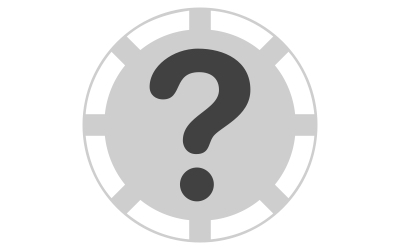
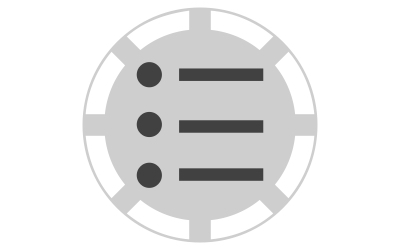
troubleshooting -> support

diff --git a/_posts/articles/2014-12-22-support.md b/_posts/articles/2014-12-22-support.md
@@ -1,19 +1,19 @@
 ---
 layout: article
-title: "Troubleshooting"
+title: "Support"
 date: 2014-12-22T11:39:03-04:00
-modified: 2015-01-06T11:39:03-04:00
+modified: 2015-01-18
 categories: articles
-excerpt: "What to do when you're facing an issue."
+excerpt: "Get support when you have an issue with the workflow."
 image:
-  teaser: teaser-troubleshooting.jpg
+  teaser: teaser-support.jpg
   feature:
   credit:
   creditlink:
 noindex: false
 toc: false
 comments: true
-onhomepage : true
+onhomepage : false
 ---
 
 If you experience an issue with the workflow, follow these steps:-
@@ -21,7 +21,7 @@ If you experience an issue with the workflow, follow these steps:-
 * Use the `spot_mini_debug` keyword input (note that if an exception occurs, it is automatically called). This will generate a `spot_mini_debug.tgz` file in your _Downloads_ directory.
 
 <figure>
-	<img src="{{ site.url }}/images/troubleshooting1.jpg"></a>
+	<img src="{{ site.url }}/images/support1.jpg"></a>
 	<figcaption>An exception occurred.</figcaption>
 </figure>
 
@@ -31,7 +31,7 @@ If you experience an issue with the workflow, follow these steps:-
 **Note:** With the `spot_mini_debug.tgz`, I'll have access to your Spotify library (but not your Spotify password, don't worry :smile:). This is only for the time of investigation. Once investigation is over, you can regenerate a _Client Secret_, as explained in the [Spotify Application page](https://developer.spotify.com/my-applications):-
 
 <figure>
-	<img src="{{ site.url }}/images/troubleshooting2.jpg"></a>
+	<img src="{{ site.url }}/images/support2.jpg"></a>
 	<figcaption>Regenerate Client Secret once investigation is over.</figcaption>
 </figure>
 
@@ -39,7 +39,7 @@ If you experience an issue with the workflow, follow these steps:-
 * Open an issue on the [Github page](https://github.com/vdesabou/alfred-spotify-mini-player/issues/new). You can also use command `spot_mini_issue` to open the issue:-
 
 <figure>
-	<img src="{{ site.url }}/images/troubleshooting3.jpg"></a>
+	<img src="{{ site.url }}/images/support3.jpg"></a>
 	<figcaption>Open an issue on Github page.</figcaption>
 </figure>
 
